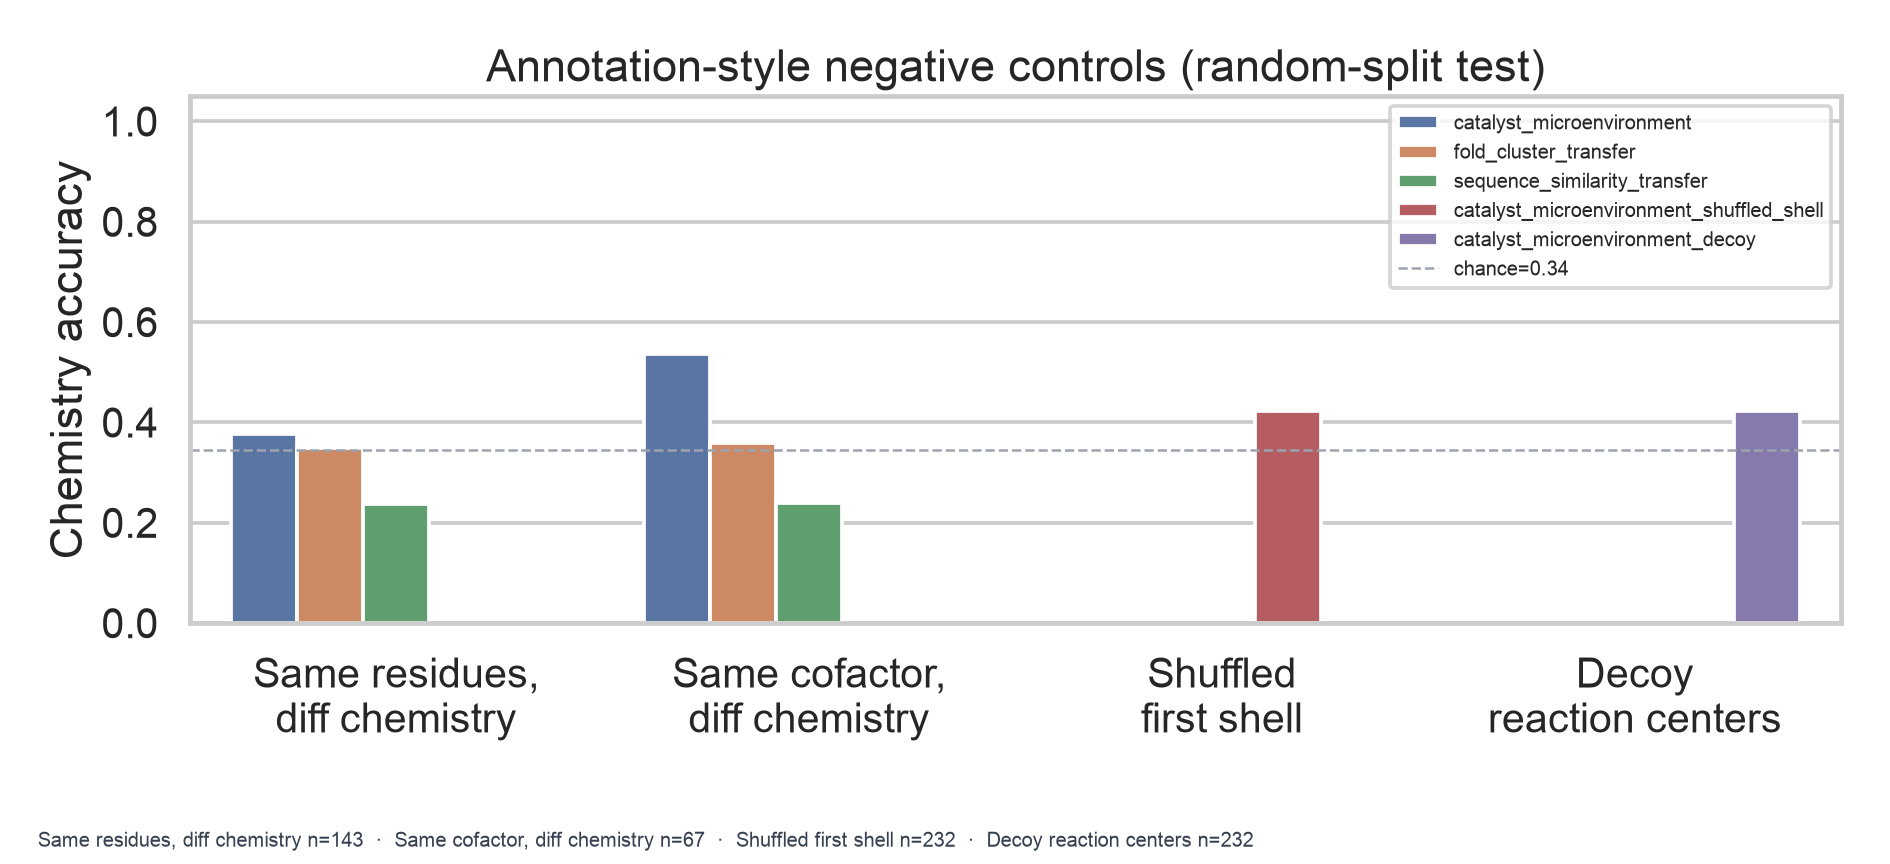
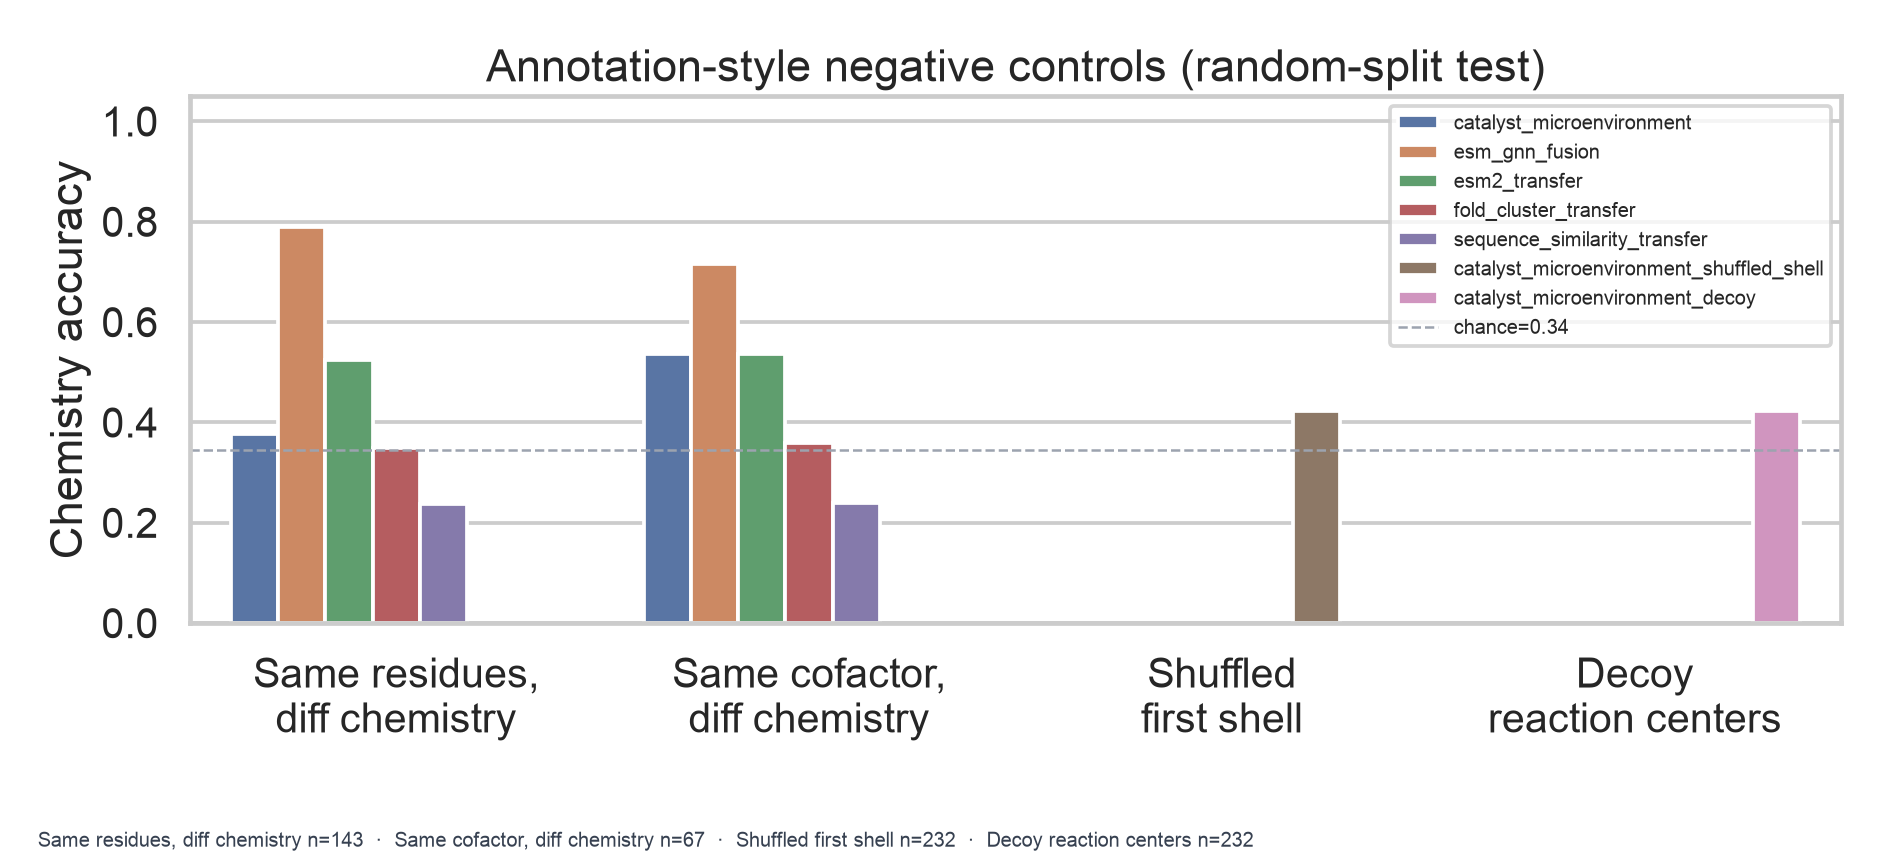
v5 planning

diff --git a/docs/plans/v0.5_expanded_learned.md b/docs/plans/v0.5_expanded_learned.md
@@ -1,18 +1,26 @@
 # v0.5 — learned methods on the expanded atlas
 
-**In progress.** Retrain frozen ESM-2 + ESM+GNN on the v0.4 expanded atlas so learned methods are not skipped at eval.
+**Complete.** Frozen ESM-2 + ESM+GNN retrained on the v0.4 expanded atlas (n=1157).
 
-## Goal
+## Expanded-track win table (fold holdout)
 
-Close the gap left by v0.4: engineered fold holdout on n=1157 is ~0.38, but ESM / ESM+GNN artifacts are still MCSA-sized (n=959).
+| Method | fold_cluster | convergent (n=29) |
+|--------|-------------:|------------------:|
+| catalyst_microenvironment | 0.38 | 0.34 |
+| esm2_transfer | 0.46 | 0.45 |
+| **esm_gnn_fusion** | **0.49** | 0.83 |
+
+Sources: mcsa=959, uniprot=198; structure_source experimental=1107 / alphafold=50.
+
+Lead metric is `fold_cluster`. Convergent (n=29) is secondary — ESM+GNN’s 0.83 is informative but not the headline (small-n audit). MCSA-only bake-off (n=959) remains in [`v0.3_learn_catalytic_language.md`](v0.3_learn_catalytic_language.md) (ESM+GNN 0.45).
 
 ## Checklist
 
-- [ ] Reaction-center graphs for n=1157
-- [ ] Frozen ESM-2 embeddings for n=1157 (`cat-esm`)
-- [ ] Train `cat-train-encoder --fusion-esm` on fold_cluster (RunPod)
-- [ ] Eval fold holdout + annotation controls; report vs engineered baseline
-- [ ] Update `reports/v04_reeval_summary.json` / README expanded-track numbers
+- [x] Reaction-center graphs for n=1157
+- [x] Frozen ESM-2 embeddings for n=1157 (`cat-esm`)
+- [x] Train `cat-train-encoder --fusion-esm` on fold_cluster (RunPod)
+- [x] Eval fold holdout + annotation controls
+- [x] Update `reports/v04_reeval_summary.json` / README expanded-track numbers
 
 ## Commands
 
@@ -24,9 +32,5 @@ cat-train-encoder --split fold_cluster --fusion-esm --no-early-stop \
   --val-folds 12 --lambda-cls 0.3 --seed 7 -v
 cat-eval --no-external
 ```
-
-## Primary metric
-
-`fold_cluster` chemistry accuracy on the expanded atlas. Call out n and sources (mcsa / uniprot; experimental / alphafold).
 
 Deferred: ESM fine-tuning; AFDB-only stratified eval as a separate track.

diff --git a/README.md b/README.md
@@ -249,6 +249,7 @@ Narrative case studies: `cat-cases` → [`reports/case_studies/`](reports/case_s
 | v0.2 | Catalytic microenvironments contain chemistry signal under fold holdout |
 | v0.3 | ESM+GNN leads fold-disconnected transfer (~0.45); GNN alone does not; annotation/side fusion fails under fold shift |
 | v0.4 | Prove chemistry (not annotation style) with negative controls; expand beyond M-CSA |
+| v0.5 | Retrain ESM+GNN on expanded atlas (n=1157): fold≈0.49 vs engineered≈0.38 |
 
 ### v0.3 — learned catalytic language (bake-off)
 
@@ -268,7 +269,7 @@ Primary metric: **`fold_cluster`**. Convergent audit reports **n** explicitly. P
 | Annotation-style controls | `cat-eval` | Same-residue / same-cofactor / shuffled shell / decoy centers |
 | Expanded atlas | `cat-download --public --expanded --n-extra 200` | UniProt ACT_SITE + EC labels; AFDB as `structure_source=alphafold` |
 
-Expanded-track snapshot: **n=1157** (M-CSA 959 + UniProt 198; AlphaFold 50). Engineered fold holdout stays ~0.38. Summary: [`reports/v04_reeval_summary.json`](reports/v04_reeval_summary.json). Plan: [`docs/plans/v0.4_rigor_and_scale.md`](docs/plans/v0.4_rigor_and_scale.md).
+Expanded track (**n=1157**: M-CSA 959 + UniProt 198; AlphaFold 50): engineered fold≈0.38, ESM-2≈0.46, **ESM+GNN≈0.49**. Summary: [`reports/v04_reeval_summary.json`](reports/v04_reeval_summary.json). Plans: [`v0.4`](docs/plans/v0.4_rigor_and_scale.md), [`v0.5`](docs/plans/v0.5_expanded_learned.md).
 
 Out of scope for now: ESM fine-tuning, more engineered fusion variants, optimizing random-split accuracy.
 